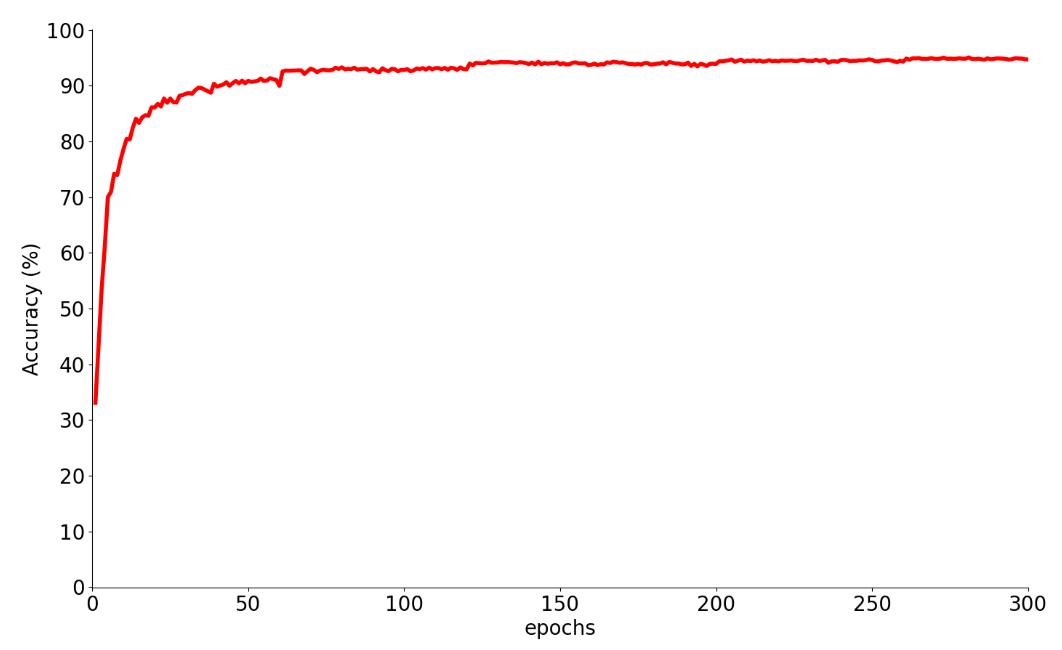
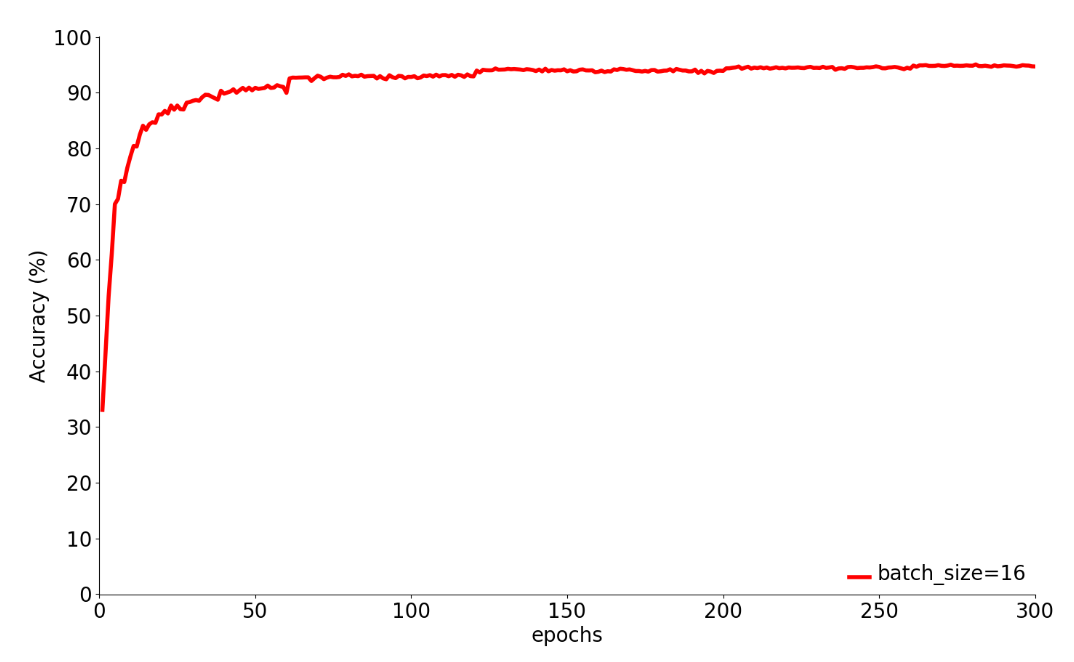
update README

diff --git a/utils/plot.py b/utils/plot.py
@@ -37,9 +37,9 @@ def plot_example(ys, xlabel, ylabel):
 
     # 画图
     for y, legend, color in zip(ys, legends, colors):
-        # if legend != "batch_size=16":
-        #     continue
-        # y = [i * 100 for i in y]
+        if legend != "batch_size=16":
+            continue
+        y = [i * 100 for i in y]
         plt.plot(x, y, color=color, label=legend, linewidth=linewidth, markersize=markersize)
 
     # for y, legend, color in zip([ys[0]], [legends[0]], [colors[0]]):
@@ -65,9 +65,9 @@ def plot_example(ys, xlabel, ylabel):
 
     # 坐标间隔
     x_major_locator = MultipleLocator(50)
-    # y_major_locator = MultipleLocator(10)
+    y_major_locator = MultipleLocator(10)
     ax.xaxis.set_major_locator(x_major_locator)
-    # ax.yaxis.set_major_locator(y_major_locator)
+    ax.yaxis.set_major_locator(y_major_locator)
 
     # 坐标标签
     plt.xlabel(xlabel, fontsize=xylabel_fontsize)
@@ -75,10 +75,10 @@ def plot_example(ys, xlabel, ylabel):
 
     # 坐标范围
     plt.xlim(-0.07, len(x) + 0.09)
-    plt.ylim(-0.07, 2.1)
+    plt.ylim(-0.07, 100.1)
 
     # 图例
-    plt.legend(loc=1, numpoints=1, ncol=1, frameon=False)
+    plt.legend(loc=4, numpoints=1, ncol=1, frameon=False)
     leg = plt.gca().get_legend()
     ltext = leg.get_texts()
     plt.setp(ltext, fontsize=legend_fontsize, fontweight='normal')  # 设置图例字体的大小和粗细
@@ -90,12 +90,12 @@ def plot_example(ys, xlabel, ylabel):
 def visualize(json_path, epochs):
     losses = []
     for b in ["16", "32", "64", "128", "256", "512"]:
-        loss = json_loader(rf"D:\研究生\projects\Gridet\visualize\res-{b}.json")["loss"]
+        loss = json_loader(rf"D:\研究生\projects\Gridet\visualize\res-{b}.json")["accuracy"]
         for _ in range(300 - len(loss)):
             loss.append(loss[-1])
         losses.append(loss)
 
-    plot_example(losses, xlabel="epochs", ylabel="Loss")
+    plot_example(losses, xlabel="epochs", ylabel="Accuracy (%)")
 
 
 if __name__ == '__main__':

diff --git a/README.md b/README.md
@@ -44,11 +44,11 @@ Warmup + MultiStepLr 学习率调整策略：`warmup_epochs=1` `warmup_factor=0.
 
 loss变化曲线：
 
-<img src="./images/loss.png" alt="loss" style="zoom: 33%;" />
+<img src="./images/loss.png" alt="loss" style="zoom: 50%;" />
 
 准确率（Accuracy）变化曲线：
 
-<img src="./images/acc.png" alt="image-20220927160700032" style="zoom: 33%;" />
+<img src="./images/acc.png" alt="image-20220927160700032" style="zoom: 50%;" />
 
 
 
